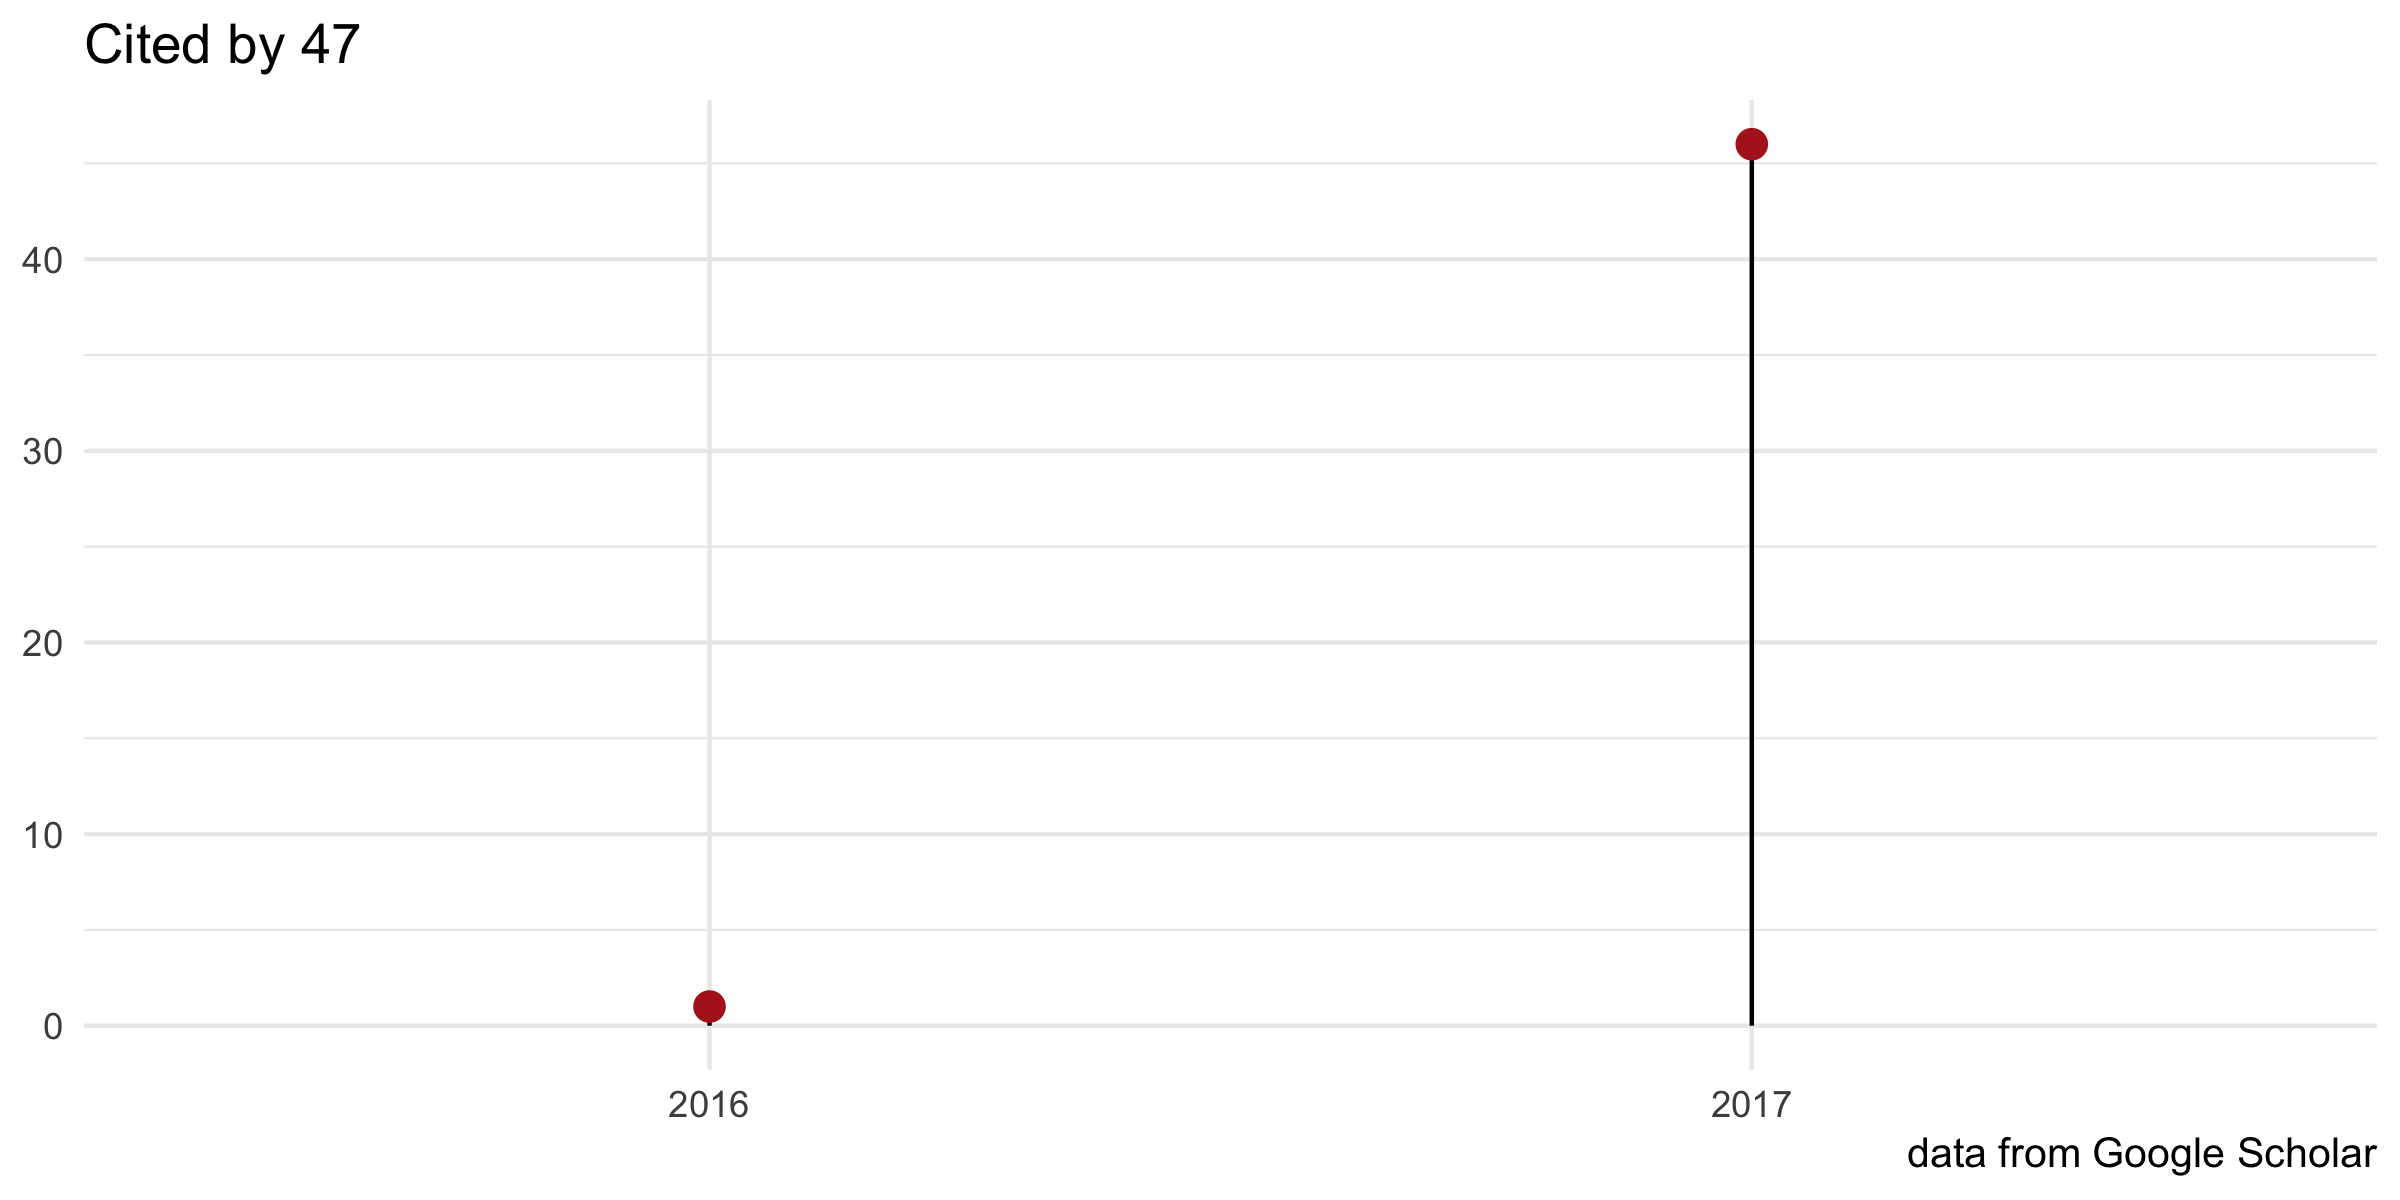
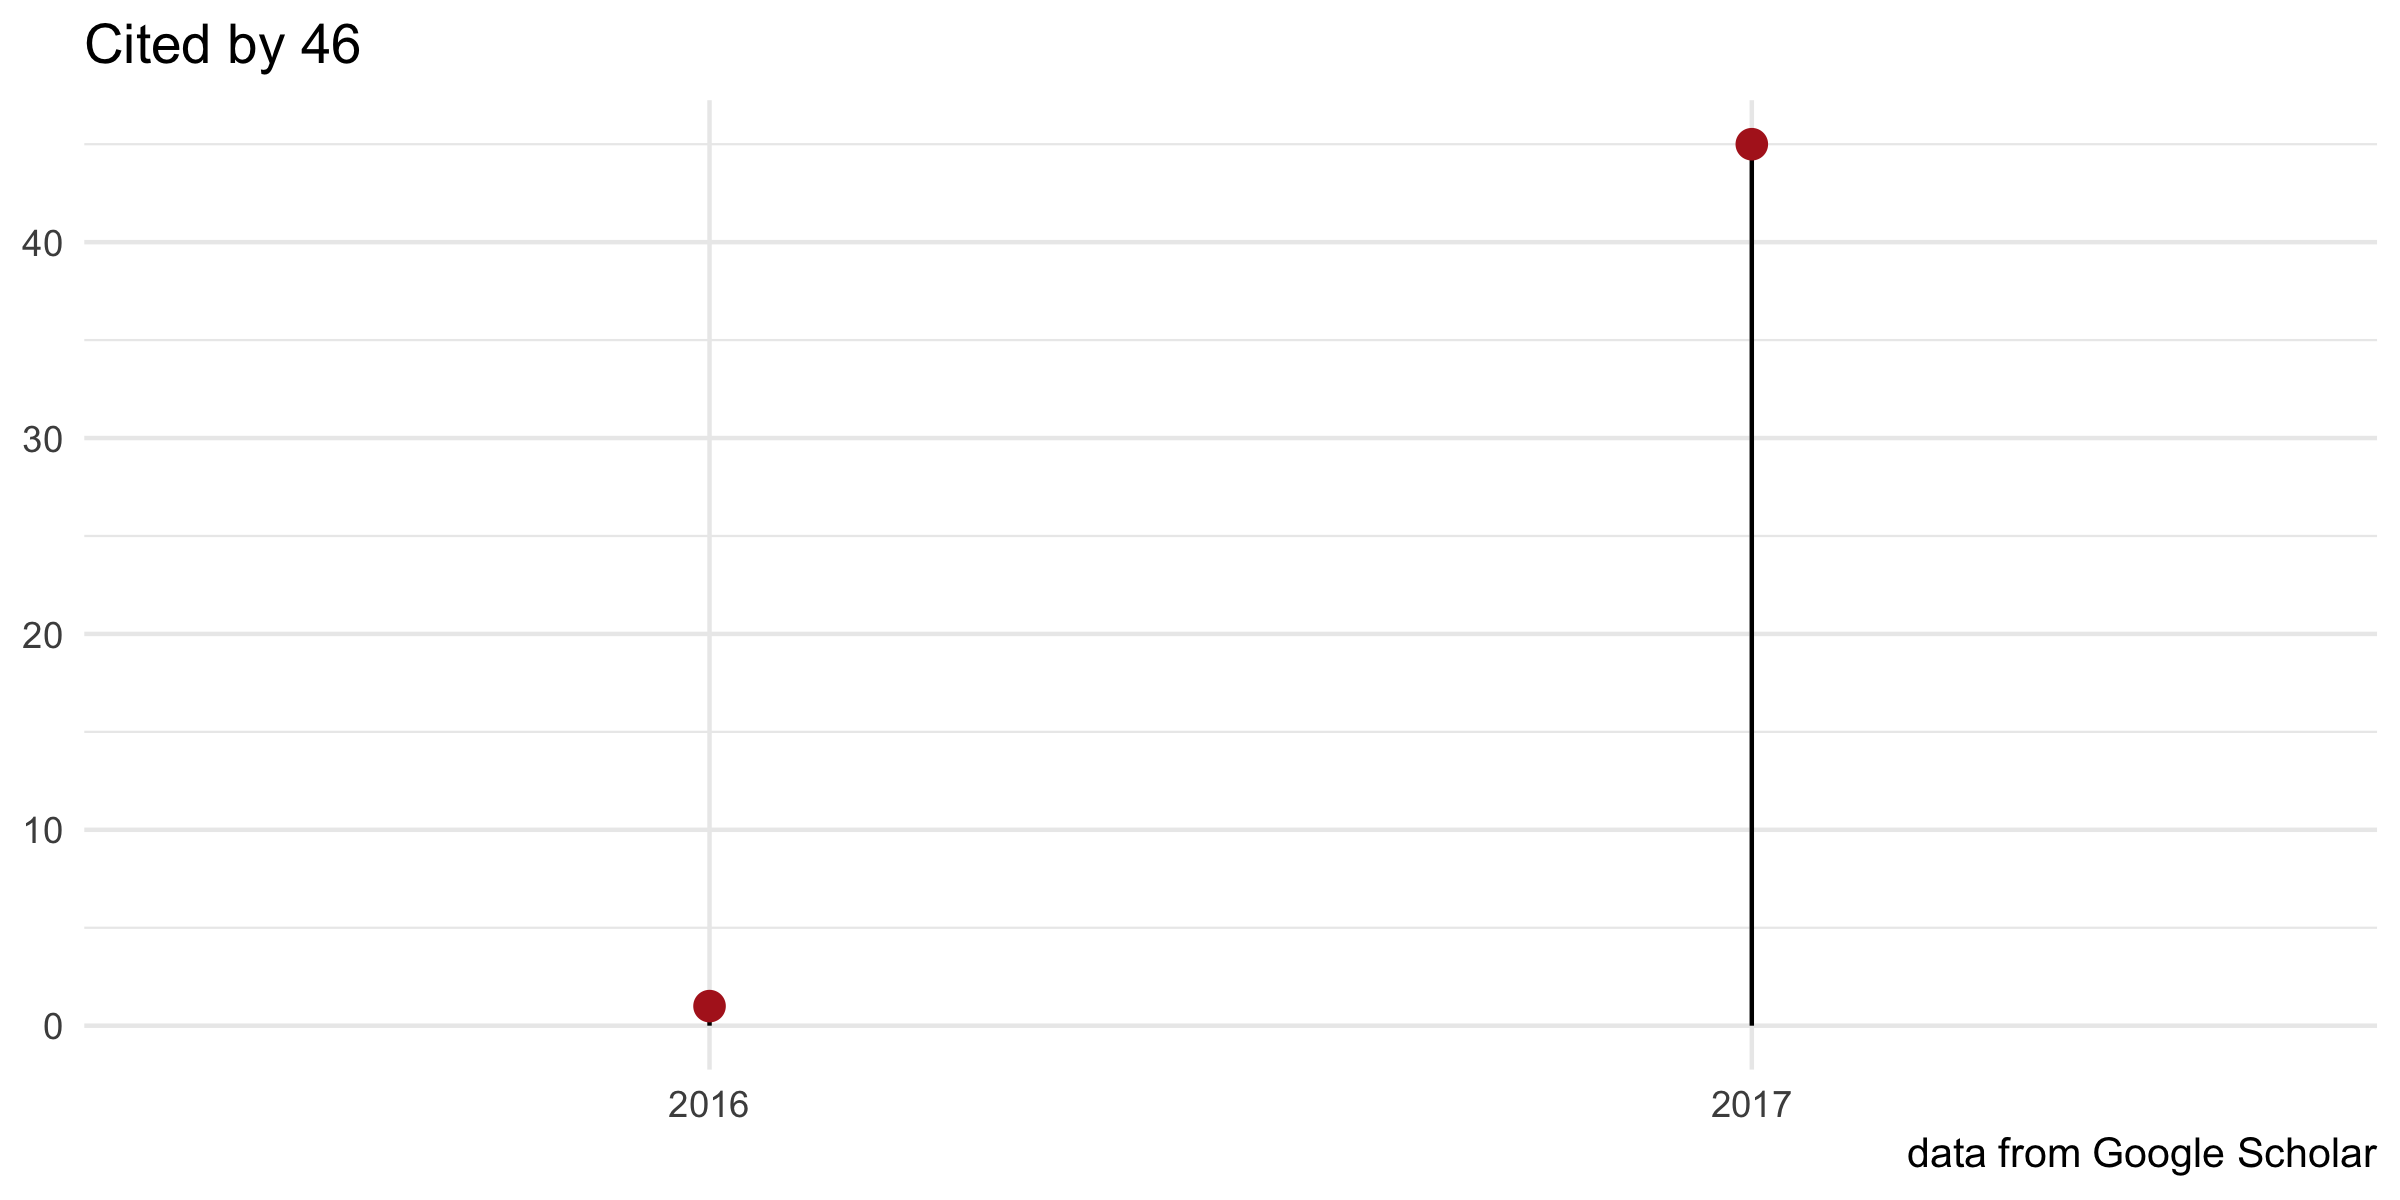
geom_tiplab enhancement

diff --git a/README.md b/README.md
@@ -7,14 +7,14 @@ ggtree: an R package for visualization and annotation of phylogenetic trees with
 [![releaseVersion](https://img.shields.io/badge/release%20version-1.10.0-green.svg?style=flat)](https://bioconductor.org/packages/ggtree)
 [![develVersion](https://img.shields.io/badge/devel%20version-1.11.1-green.svg?style=flat)](https://github.com/guangchuangyu/ggtree)
 [![Bioc](http://www.bioconductor.org/shields/years-in-bioc/ggtree.svg)](https://www.bioconductor.org/packages/devel/bioc/html/ggtree.html#since)
-[![total](https://img.shields.io/badge/downloads-21262/total-blue.svg?style=flat)](https://bioconductor.org/packages/stats/bioc/ggtree)
+[![total](https://img.shields.io/badge/downloads-21387/total-blue.svg?style=flat)](https://bioconductor.org/packages/stats/bioc/ggtree)
 [![month](https://img.shields.io/badge/downloads-1156/month-blue.svg?style=flat)](https://bioconductor.org/packages/stats/bioc/ggtree)
 
 [![Project Status: Active - The project has reached a stable, usable
 state and is being actively
 developed.](http://www.repostatus.org/badges/latest/active.svg)](http://www.repostatus.org/#active)
 [![codecov](https://codecov.io/gh/GuangchuangYu/ggtree/branch/master/graph/badge.svg)](https://codecov.io/gh/GuangchuangYu/ggtree)
-[![Last-changedate](https://img.shields.io/badge/last%20change-2017--11--15-green.svg)](https://github.com/GuangchuangYu/ggtree/commits/master)
+[![Last-changedate](https://img.shields.io/badge/last%20change-2017--11--20-green.svg)](https://github.com/GuangchuangYu/ggtree/commits/master)
 [![GitHub
 forks](https://img.shields.io/github/forks/GuangchuangYu/ggtree.svg)](https://github.com/GuangchuangYu/ggtree/network)
 [![GitHub
@@ -60,7 +60,7 @@ Evolution***. 2017, 8(1):28-36.
 
 [![doi](https://img.shields.io/badge/doi-10.1111/2041--210X.12628-green.svg?style=flat)](http://dx.doi.org/10.1111/2041-210X.12628)
 [![Altmetric](https://img.shields.io/badge/Altmetric-336-green.svg?style=flat)](https://www.altmetric.com/details/10533079)
-[![citation](https://img.shields.io/badge/cited%20by-47-green.svg?style=flat)](https://scholar.google.com.hk/scholar?oi=bibs&hl=en&cites=7268358477862164627)
+[![citation](https://img.shields.io/badge/cited%20by-46-green.svg?style=flat)](https://scholar.google.com.hk/scholar?oi=bibs&hl=en&cites=7268358477862164627)
 
 ------------------------------------------------------------------------
 
@@ -71,7 +71,7 @@ Evolution***. 2017, 8(1):28-36.
 ### Download stats
 
 [![download](http://www.bioconductor.org/shields/downloads/ggtree.svg)](https://bioconductor.org/packages/stats/bioc/ggtree)
-[![total](https://img.shields.io/badge/downloads-21262/total-blue.svg?style=flat)](https://bioconductor.org/packages/stats/bioc/ggtree)
+[![total](https://img.shields.io/badge/downloads-21387/total-blue.svg?style=flat)](https://bioconductor.org/packages/stats/bioc/ggtree)
 [![month](https://img.shields.io/badge/downloads-1156/month-blue.svg?style=flat)](https://bioconductor.org/packages/stats/bioc/ggtree)
 
 <img src="docs/images/dlstats.png" width="890"/>
